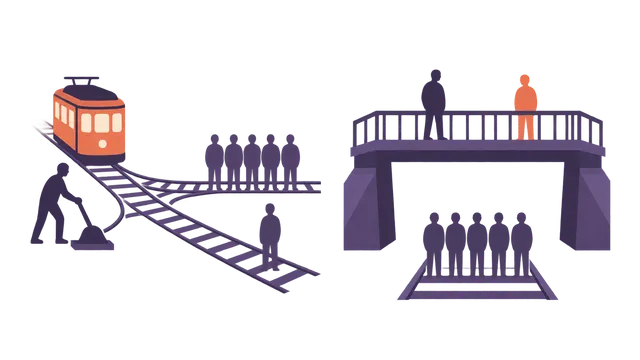
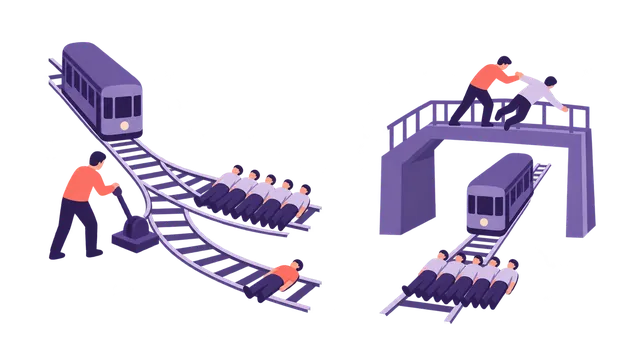
Vrátit původní ilustrace a zpřesnit pravidla překreslování

diff --git a/docs/ilustrace-handoff.md b/docs/ilustrace-handoff.md
@@ -23,11 +23,11 @@ Vývojová galerie je na `/faakt.io/dev/illustrations-ai/` a zobrazuje všech 21
 
 ## Dávka 185–214
 
-Všech 30 dříve chybějících ilustrací vytvořil vestavěný image_gen s `transparent_background=true`, samostatným požadavkem pro každý post. Po kontrole významu dostaly `188`, `198`, `200` a `212` jednu cílenou náhradu: přesné počty osob v dilematu, předávání zboží mezi prostředníky, otevřené španělské zprávy proti válečné cenzuře a oddělené kvantové stanice bez spojnic naznačujících signál. Celkem 34 generovacích volání; nástroj nenabízí řízení vstupního rozměru, kvality ani ceny.
+Všech 30 ilustrací vytvořil vestavěný image_gen s `transparent_background=true`, samostatným požadavkem pro každý post. `198` používá cílenou náhradu s předáváním zboží mezi prostředníky. `188`, `200` a `212` používají první vygenerované verze výslovně vybrané uživatelem: aktivní děj dilematu u kolejí, prodavače novin vedle tlumeného válečného zpravodajství a kvantová měření propojená symbolickými křivkami. Byly obnoveny z uložených originálů, bez nového generování. Celková spotřeba původní dávky zůstává 34 generovacích volání; nástroj nenabízí řízení vstupního rozměru, kvality ani ceny.
 
-Finální soubory jsou RGBA WebP 640×360, quality 80, s průhledným odsazením a nulovou alfou ve všech rozích. Velikosti jsou 15 248–47 678 B, celkem 926 766 B. Všech 30 ID je zapnuto v kartách i dostupné v galerii. Existující assety ani `posts.json` se nemění. Manifest uchovává přesné finální prompty, SHA-256 promptů, metadat a obrázků a jednotlivé kontroly významu. Nové barevné kombinace vycházejí z metadat; některé obrázky překračují cílové tři barvy nebo počet ploch.
+Finální soubory jsou RGBA WebP 640×360, quality 80, s průhledným odsazením a nulovou alfou ve všech rozích. Velikosti jsou 17 988–47 678 B, celkem 952 616 B. Všech 30 ID je zapnuto v kartách i dostupné v galerii. `posts.json` se nemění. Manifest uchovává skutečně odeslané prompty aktivních verzí, SHA-256 promptů, metadat a obrázků a jednotlivé kontroly významu. U obnovených verzí eviduje také původní zdroj, volbu uživatele a hashe nahrazených verzí. Nové barevné kombinace vycházejí z metadat; některé obrázky překračují cílové tři barvy nebo počet ploch.
 
-Miniatury byly prohlédnuty při 160×90 a 320×180 na tmavém povrchu karty. Hlavní motivy jsou čitelné, bez obdélníkového pozadí. `190` používá klíč a klávesu jako analogii významu podle kontextu. `192` má jemnější soukolí, `194` členitější architekturu a `199` tři fáze úpadku; jde o zaznamenané odchylky od jednoduchosti. `200` obsahuje redakční označení ESPANA a GUERRA, nikoli autentické titulky novin. `202` spojuje záměrně zvětšený detail zdi s orbitálním pohledem, netvrdí viditelnost pouhým okem. `208` doprovází úbytek izotopu bez kvantitativního měřítka. `210` je rekonstrukce hominina, nikoli přesný soupis dochovaných kostí Lucy. `211` je zjednodušené schéma interference, nikoli měřené dráhy částic; `212` doprovází korelace a nedokazuje Bellovy nerovnosti. `214` zobrazuje detektor a srážku, nikoli přímo mechanismus hmotnosti. Další omezení jsou u jednotlivých záznamů manifestu.
+Miniatury byly prohlédnuty při 160×90 a 320×180 na tmavém povrchu karty, včetně tří obnovených originálů. Hlavní motivy jsou čitelné, bez obdélníkového pozadí. `188` zachovává výrazné jednání u výhybky a na mostě; stylizované skupiny vyjadřují mnoho proti jednomu, přesnou premisu pěti proti jednomu dodává text. `190` používá klíč a klávesu jako analogii významu podle kontextu. `192` má jemnější soukolí, `194` členitější architekturu a `199` tři fáze úpadku; jde o zaznamenané odchylky od jednoduchosti. `200` nechává španělský kontext textu a zachovává lidský děj otevřeného zpravodajství; symbol viru je retrospektivní. `202` spojuje záměrně zvětšený detail zdi s orbitálním pohledem, netvrdí viditelnost pouhým okem. `208` doprovází úbytek izotopu bez kvantitativního měřítka. `210` je rekonstrukce hominina, nikoli přesný soupis dochovaných kostí Lucy. `211` je zjednodušené schéma interference, nikoli měřené dráhy částic; křivky v `212` symbolizují sdílený stav a šipky párové výsledky měření, nejsou drahou nadsvětelného signálu ani důkazem Bellových nerovností. `214` zobrazuje detektor a srážku, nikoli přímo mechanismus hmotnosti. Další omezení jsou u jednotlivých záznamů manifestu.
 
 Deterministický repair proběhl pouze v náhledu; obecné přepisy nebyly aplikovány. Ověření zahrnuje rozměry, alfa kanál, velikosti a SHA-256 všech 30 souborů, `npm test` a `npm run build`. Procedurální renderer ani zlaté otisky se nepoužívají.
 
@@ -40,6 +40,8 @@ Kontrola vycházela z celých textů příspěvků. U abstraktních argumentů p
 Miniatury byly prohlédnuty na tmavém povrchu při 160×90 a 320×180 px. Hlavní motivy jsou čitelné a bez obdélníkového pozadí. Některé scény překračují cílových 5–8 ploch a tři barvy; zejména `160` má členitější terén, portréty používají více obrysových detailů. `178` doprovází skeptické vážení argumentů, ale tvary kamenů nejsou přesnou mírou jejich síly. Tyto odchylky jsou zaznamenané bez kosmetického opakování generování. Deterministický repair proběhl pouze v náhledu; jeho obecné přepisy nebyly aplikovány. Obsah ani metadata `posts.json` se nemění. Ověření: `npm test`, `npm run build` a kontrola rozměrů, alfa kanálu, velikostí a SHA-256 všech 25 souborů.
 
 ## Generování
+
+Kontrola posuzuje ilustraci spolu s titulkem a textem. Překreslení řeší doložený viditelný rozpor nebo skutečnou nečitelnost; samotná možnost doslovně vyložit symbol nestačí. Nejistý počet překrývajících se postav se ověřuje ve větším náhledu a jeho význam pro hlavní kontrast se posuzuje před opravou. Spojnice, šipky a dvojice scén mohou vztah zpřehlednit. Názvy zemí ani popisky se nepřidávají jen proto, že je kontext v článku. Při oprávněné opravě se zachovává originál a obě verze se porovnají při stejné velikosti; náhrada má odstranit konkrétní problém a současně zachovat výraz, děj i čitelnost. První verze `188`, `200` a `212` jsou výslovně zvolené kompozice. Tato kritéria jsou ve skillu i sdíleném promptu; neoslabují kontrolu jasného obrácení účinku nebo nesprávného hlavního předmětu.
 
 Doprovodné symboly a vedlejší objekty jsou vítané, pokud mají smysluplný vztah k obsahu příspěvku a kompozice zůstává snadno pochopitelná. Mohou vyjadřovat abstraktní myšlenku a nemusí být doslova zmíněné v textu ani nezbytné pro hlavní motiv. Odstraňují se jen tehdy, když nemají význam pro obsah nebo kompozici příliš komplikují. Toto pravidlo platí i pro portréty a má přednost před staršími formulacemi požadujícími jen nezbytné objekty; konkrétní schválené scény zůstávají zachované. Odpovídá mu skill i sdílený generovací prompt.
 

diff --git a/skills/faakt-illustrations/SKILL.md b/skills/faakt-illustrations/SKILL.md
@@ -53,7 +53,7 @@ Create recognizable, restrained editorial raster artwork from each post's `illus
 
 ## Visual specification
 
-- Require immediate visual understanding: show one concrete subject or natural interaction, not a schematic puzzle. Supporting symbols are allowed when their connection to the content is clear. Avoid explanatory arrows, connector networks, legends or numbered steps when they turn the image into a decoding task. Show motion or proximity through pose and placement. A scientifically essential diagram is an exception only when the post explicitly needs it and one simple relationship is readable without decoding. If a viewer must follow arrows or infer what several marks mean, reject the image and simplify the scene. For post 044, show the giant planet close to its Sun-like star; omit orbit tracks, wobble arrows and measurement apparatus.
+- Require immediate visual understanding: show a recognizable subject, interaction or comparison. Supporting symbols, paired scenes and simple diagrams are appropriate when they make the relationship easier to recognize. Arrows or connecting curves are not defects by themselves: distinguish a symbolic relation or measurement outcome from an explicit claim of a physical trajectory or signal. Simplify when the main motif actually becomes hard to read at card size. For post 044, preserve the curated close view of the giant planet and its star without measurement apparatus; this case does not ban relational marks elsewhere.
 
 The helper contains the single shared STYLE; use it verbatim rather than adding ?detailed?, ?cinematic?, ?high quality?, ?beautiful landscape? or similar embellishments. Target visual simplicity during generation, before resizing.
 
@@ -77,6 +77,14 @@ The helper contains the single shared STYLE; use it verbatim rather than adding 
 
 ### Acceptance at thumbnail scale
 
+Judge the illustration together with the card title and article. It should offer an immediately recognizable motif, not replace every detail of the text. Before spending a correction, identify a concrete visible contradiction or loss of the central idea; a possible literal interpretation of an editorial symbol is not sufficient. Keep relevant factual distinctions, but verify a suspected mismatch at a larger view before declaring an error from overlapping silhouettes. Small counting ambiguities warrant replacement only when they materially change the depicted contrast. Clear reversals of an effect, wrong subjects and unreadable compositions remain substantive defects.
+
+Do not add country names, flags or explanatory labels merely because the prose supplies context absent from the image. A human scene of reporting or censorship may accompany the actual article better than a fully labelled diagram. Likewise, a symbolic connection can make entanglement recognizable without asserting communication faster than light. Assess what the whole image communicates rather than rejecting a particular mark in isolation.
+
+When a correction is justified, preserve the original, make the smallest relevant change and compare both versions at the same card size. Deliver the replacement only if it improves the identified problem while retaining the original's action, expressiveness and readability. Greater literal precision or fewer symbols alone does not establish an improvement. If the supposed defect remains uncertain, retain the original and record the limitation; do not launch a refinement loop.
+
+User-selected compositions `188`, `200` and `212` use their first generated versions: the acted-out trolley comparison, the newspaper seller contrasted with muted wartime reporting, and paired measurement outcomes linked by symbolic curves. Preserve these choices. The curves in `212` accompany a shared quantum state; they are not a literal signal path. These decisions illustrate the review criteria above, not universal requirements for future pictures.
+
 Compare the generated image with the intended visual idea, not merely with the list of objects. For a scientific post, verify a meaningful relationship or article-specific concept without reading a caption; this may be a discovery, internal structure, interaction or historical hypothesis. A named isolated object or a schematic comparison needing explanation does not pass. For a historical event, verify that its identifying context survived simplification. A disclaimer cannot rescue an uninformative picture, but honest depiction of an investigated hypothesis is valid.
 
 First verify meaning: for an explanatory scene, identify the visible action or relationship and explain how it supports the post's central idea; for a subject-led portrait, verify the actual subject, relevant pose and meaningful connection of any supporting symbolism to the teaching, and record that it accompanies rather than diagrams the teaching. Audit secondary objects against the full text, not just the prompt: accept meaningful symbolic connections as well as literal subjects, and reject unrelated additions or confusing complexity. Reject a visually attractive image if the intended relationship is absent or disappears at thumbnail scale. Check this separately from simplicity, background and file-size requirements; record the reason in provenance.
@@ -90,5 +98,6 @@ View the result at 160?90 and 320?180, not only the full-size output. The primar
 - Do not overwrite established asset paths/manifest entries unintentionally. For new assets use static/illustrations-ai/<id>.webp (or .png). Save the exact submitted prompt, metadata/prompt hash, generation method and final image path in a small manifest or sidecar. Merge entries; never replace the six-post prototype manifest wholesale. Do not record unreported model names, quality, token counts or costs as facts.
 - Inspect at actual card scale once: correct subject, readable silhouette, no unwanted text, and no visible image rectangle or mismatched black around the edges. Do not regenerate for minor aesthetic preference without a review request; report issues. Stop repeated attempts on a substantive failure and report it.
 - After a requested correction, verify both the replacement file and the card registration. A previously rejected asset may exist in the gallery while being excluded from cards; once its correction is accepted, restore its card ID and clear the stale rejection note. A saved image alone does not complete a request to fix a missing card illustration.
+- For a requested rollback, restore the saved earlier asset without a new generation. Restore its actual submitted prompt and image hash in provenance, record the user's selection, and remove the superseded rejection rationale from the current review. A subsequently updated STYLE must not be presented as the restored image's original prompt.
 - If preview is requested, reuse /dev/illustrations-ai and existing card/badge styling; honor the /faakt.io base path. Keep generated assets static with no runtime AI. Follow repository handoff-document requirements for gallery changes.
 - Stop at the requested images and local review. Report paths/preview, method, skipped cached IDs and blockers concisely. Creating this skill alone does not authorize new image generations.

diff --git a/CLAUDE.md b/CLAUDE.md
@@ -154,6 +154,8 @@ Doporučený postup:
 
 ## Shared skills for AI agents
 
+- **Kontrola ilustrací před překreslením:** posuzuj obrázek spolu s titulkem a textem karty. Překreslení musí řešit konkrétní viditelný rozpor nebo nečitelnost; domnělá doslovná interpretace symbolu nestačí. Nejasný počet překrývajících se postav nejprve ověř ve větším náhledu. Spojnice mohou vyjadřovat vztah a šipky výsledek měření, aniž by tvrdily přenos signálu. Nevyžaduj názvy zemí ani popisky jen k zopakování kontextu z textu. Náhradu porovnej s originálem při stejné velikosti a zachovej výraz, děj i čitelnost. První verze `188`, `200` a `212` jsou výslovnou volbou uživatele; pravidla a jejich konkrétní význam popisuje `skills/faakt-illustrations/SKILL.md`.
+
 - Ilustrace musí nést význam viditelným vztahem, dějem, kontextem nebo odhaleným detailem. Nikdy nenahrazuj význam nakreslením objektu a jeho pojmenováním pod obrázkem; samotná částice ani nepochopitelné schéma nestačí. Text smí přidávat jinou informaci, například původ pomoci, nikoli opakovat název objektu. Vědecký příspěvek nemusí mít diagram výsledku: může názorně zobrazovat i zkoumanou historickou představu, například světlo v představovaném éteru, aniž by tvrdil, že hypotéza platí. U historické události zachovej rozpoznávací znaky místa, děje a kontextu. Po přijetí opravené ilustrace ověř také její zapnutí v kartě. Podrobnosti obsahují ilustrační a metadatový skill.
 
 - Při sdílení ilustrací rozlišuj obsahovou duplicitu od shody konkrétní scény. Oprava pozadí má zachovat nejlépe odpovídající námět; průhledná ilustrace jiného příběhu není automaticky náhradou. U experimentů ověř i směr účinku (u 009 pozitivnější hodnocení po malé odměně). Podrobnosti a výslovně zvolené sdílení 009/082 popisuje `skills/faakt-illustrations/SKILL.md`.
